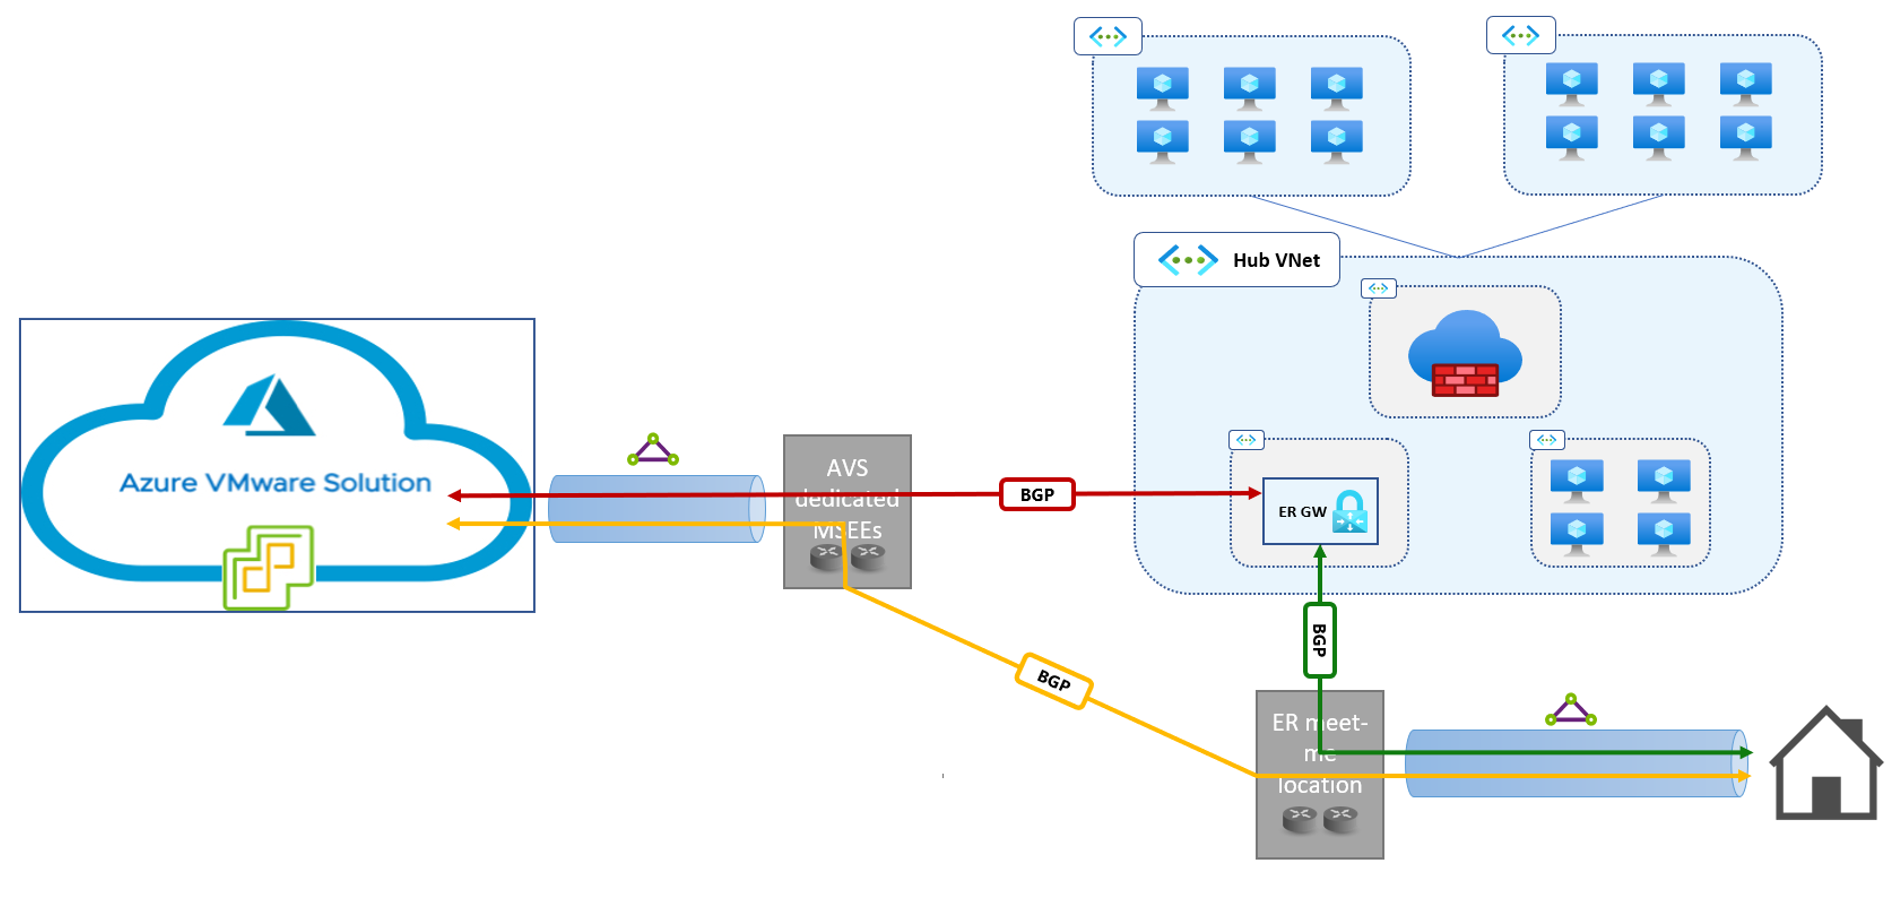
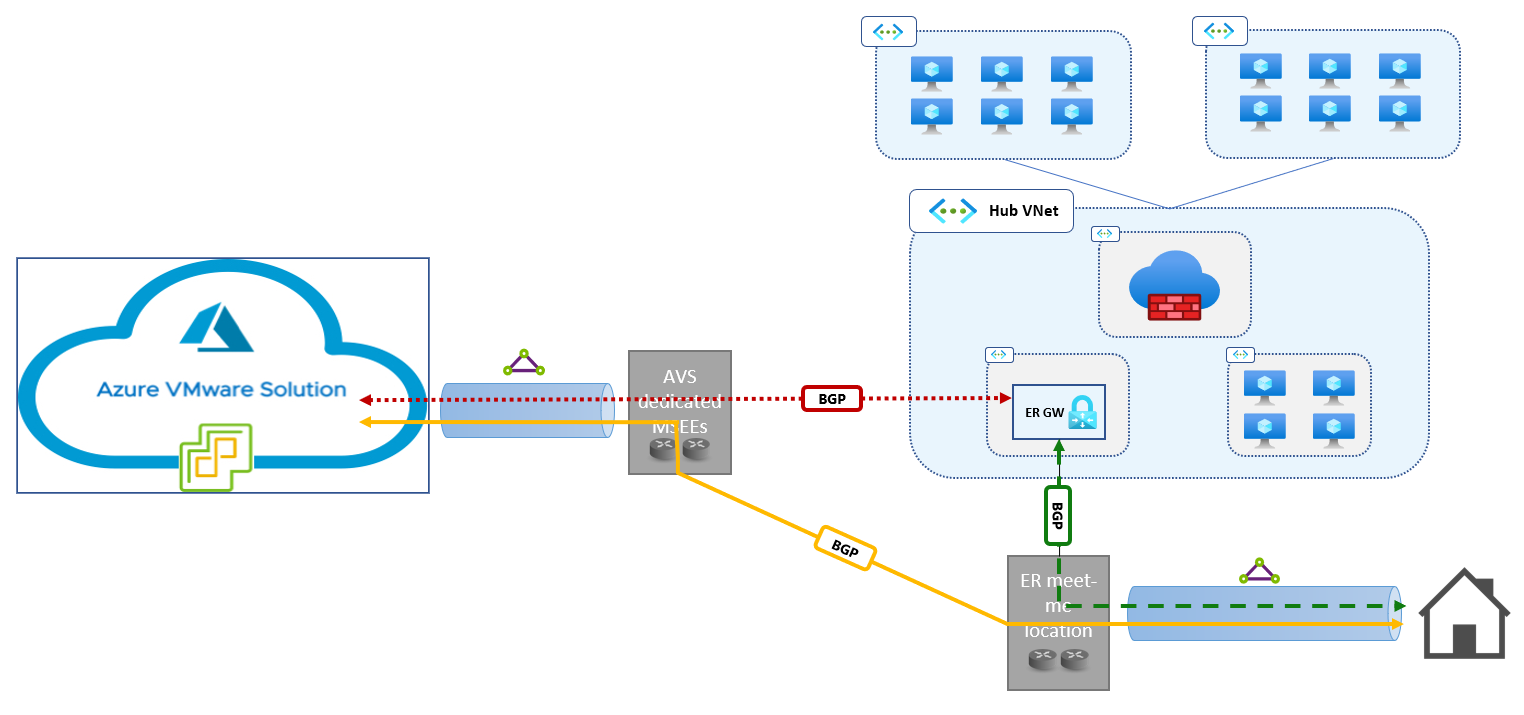
Fixed accessibility issues in fig 5

diff --git a/docs/scenarios/azure-vmware/network-design-guide-avs-networking-basics.md b/docs/scenarios/azure-vmware/network-design-guide-avs-networking-basics.md
@@ -52,9 +52,9 @@ Azure VMware Solution private clouds connect to Azure virtual networks and remot
 *Dynamic routing in Azure VMware Solution.*
 
 In the standard topology shown in the above figure:
-- Routes for all network segments in the Azure VMware Solution private cloud (both management and workload segments) are announced to all ExpressRoute Gateways connected to the private cloud's managed circuit. In the opposite direction, ExpressRoute Gateways announce routes for all the prefixes that comprise the address space of their own virtual network and the address space of all directly peered networks, if peering is configured to [allow gateway transit](/azure/virtual-network/virtual-network-peering-overview#gateways-and-on-premises-connectivity) (red arrow in the figure). 
-- Routes for all network segments in the Azure VMware Solution private cloud (both management and workload segments) are announced to all ExpressRoute circuits connected to the private cloud's managed circuit via Global Reach. In the opposite direction, all routes announced from the on-premises site over the customer-managed ExpressRoute circuit are propagated to the Azure VMware Solution private cloud (yellow arrow in the figure).
-- All routes announced from the on-premises site over the customer-managed ExpressRoute circuit are learned by all ExpressRoute Gateways connected to the circuit and injected the route table of the Gateway's virtual network (as well as the route table of all directly peered networks, if peering is configured to [allow gateway transit](/azure/virtual-network/virtual-network-peering-overview#gateways-and-on-premises-connectivity)). In the opposite direction, ExpressRoute Gateways announce routes for all the prefixes that comprise the address space of their own virtual network (as well as the address space of all directly peered network, if peering is configured to [allow gateway transit](/azure/virtual-network/virtual-network-peering-overview#gateways-and-on-premises-connectivity)) (green arrow in the figure.) This is standard ExpressRoute behavior, not related to Azure VMware Solution.
+- Routes for all network segments in the Azure VMware Solution private cloud (both management and workload segments) are announced to all ExpressRoute Gateways connected to the private cloud's managed circuit. In the opposite direction, ExpressRoute Gateways announce routes for all the prefixes that comprise the address space of their own virtual network and the address space of all directly peered networks, if peering is configured to [allow gateway transit](/azure/virtual-network/virtual-network-peering-overview#gateways-and-on-premises-connectivity) (dotted-line arrow in the figure). 
+- Routes for all network segments in the Azure VMware Solution private cloud (both management and workload segments) are announced to all ExpressRoute circuits connected to the private cloud's managed circuit via Global Reach. In the opposite direction, all routes announced from the on-premises site over the customer-managed ExpressRoute circuit are propagated to the Azure VMware Solution private cloud (solid-line arrow in the figure).
+- All routes announced from the on-premises site over the customer-managed ExpressRoute circuit are learned by all ExpressRoute Gateways connected to the circuit and injected the route table of the Gateway's virtual network (as well as the route table of all directly peered networks, if peering is configured to [allow gateway transit](/azure/virtual-network/virtual-network-peering-overview#gateways-and-on-premises-connectivity)). In the opposite direction, ExpressRoute Gateways announce routes for all the prefixes that comprise the address space of their own virtual network (as well as the address space of all directly peered network, if peering is configured to [allow gateway transit](/azure/virtual-network/virtual-network-peering-overview#gateways-and-on-premises-connectivity)) (dashed-line arrow in the figure.) This is standard ExpressRoute behavior, not related to Azure VMware Solution.
 
 > [!NOTE]
 > It should be noted that ExpressRoute Gateways do not propagate routes across circuit connections. In the above figure, the ExpressRoute Gateway does not propagate routes learned in the “red” BGP session to the “green” BGP peer, and vice versa. This is the reason why Global Reach is required to enable connectivity between the Azure VMware Solution private cloud and the on-premises site.
